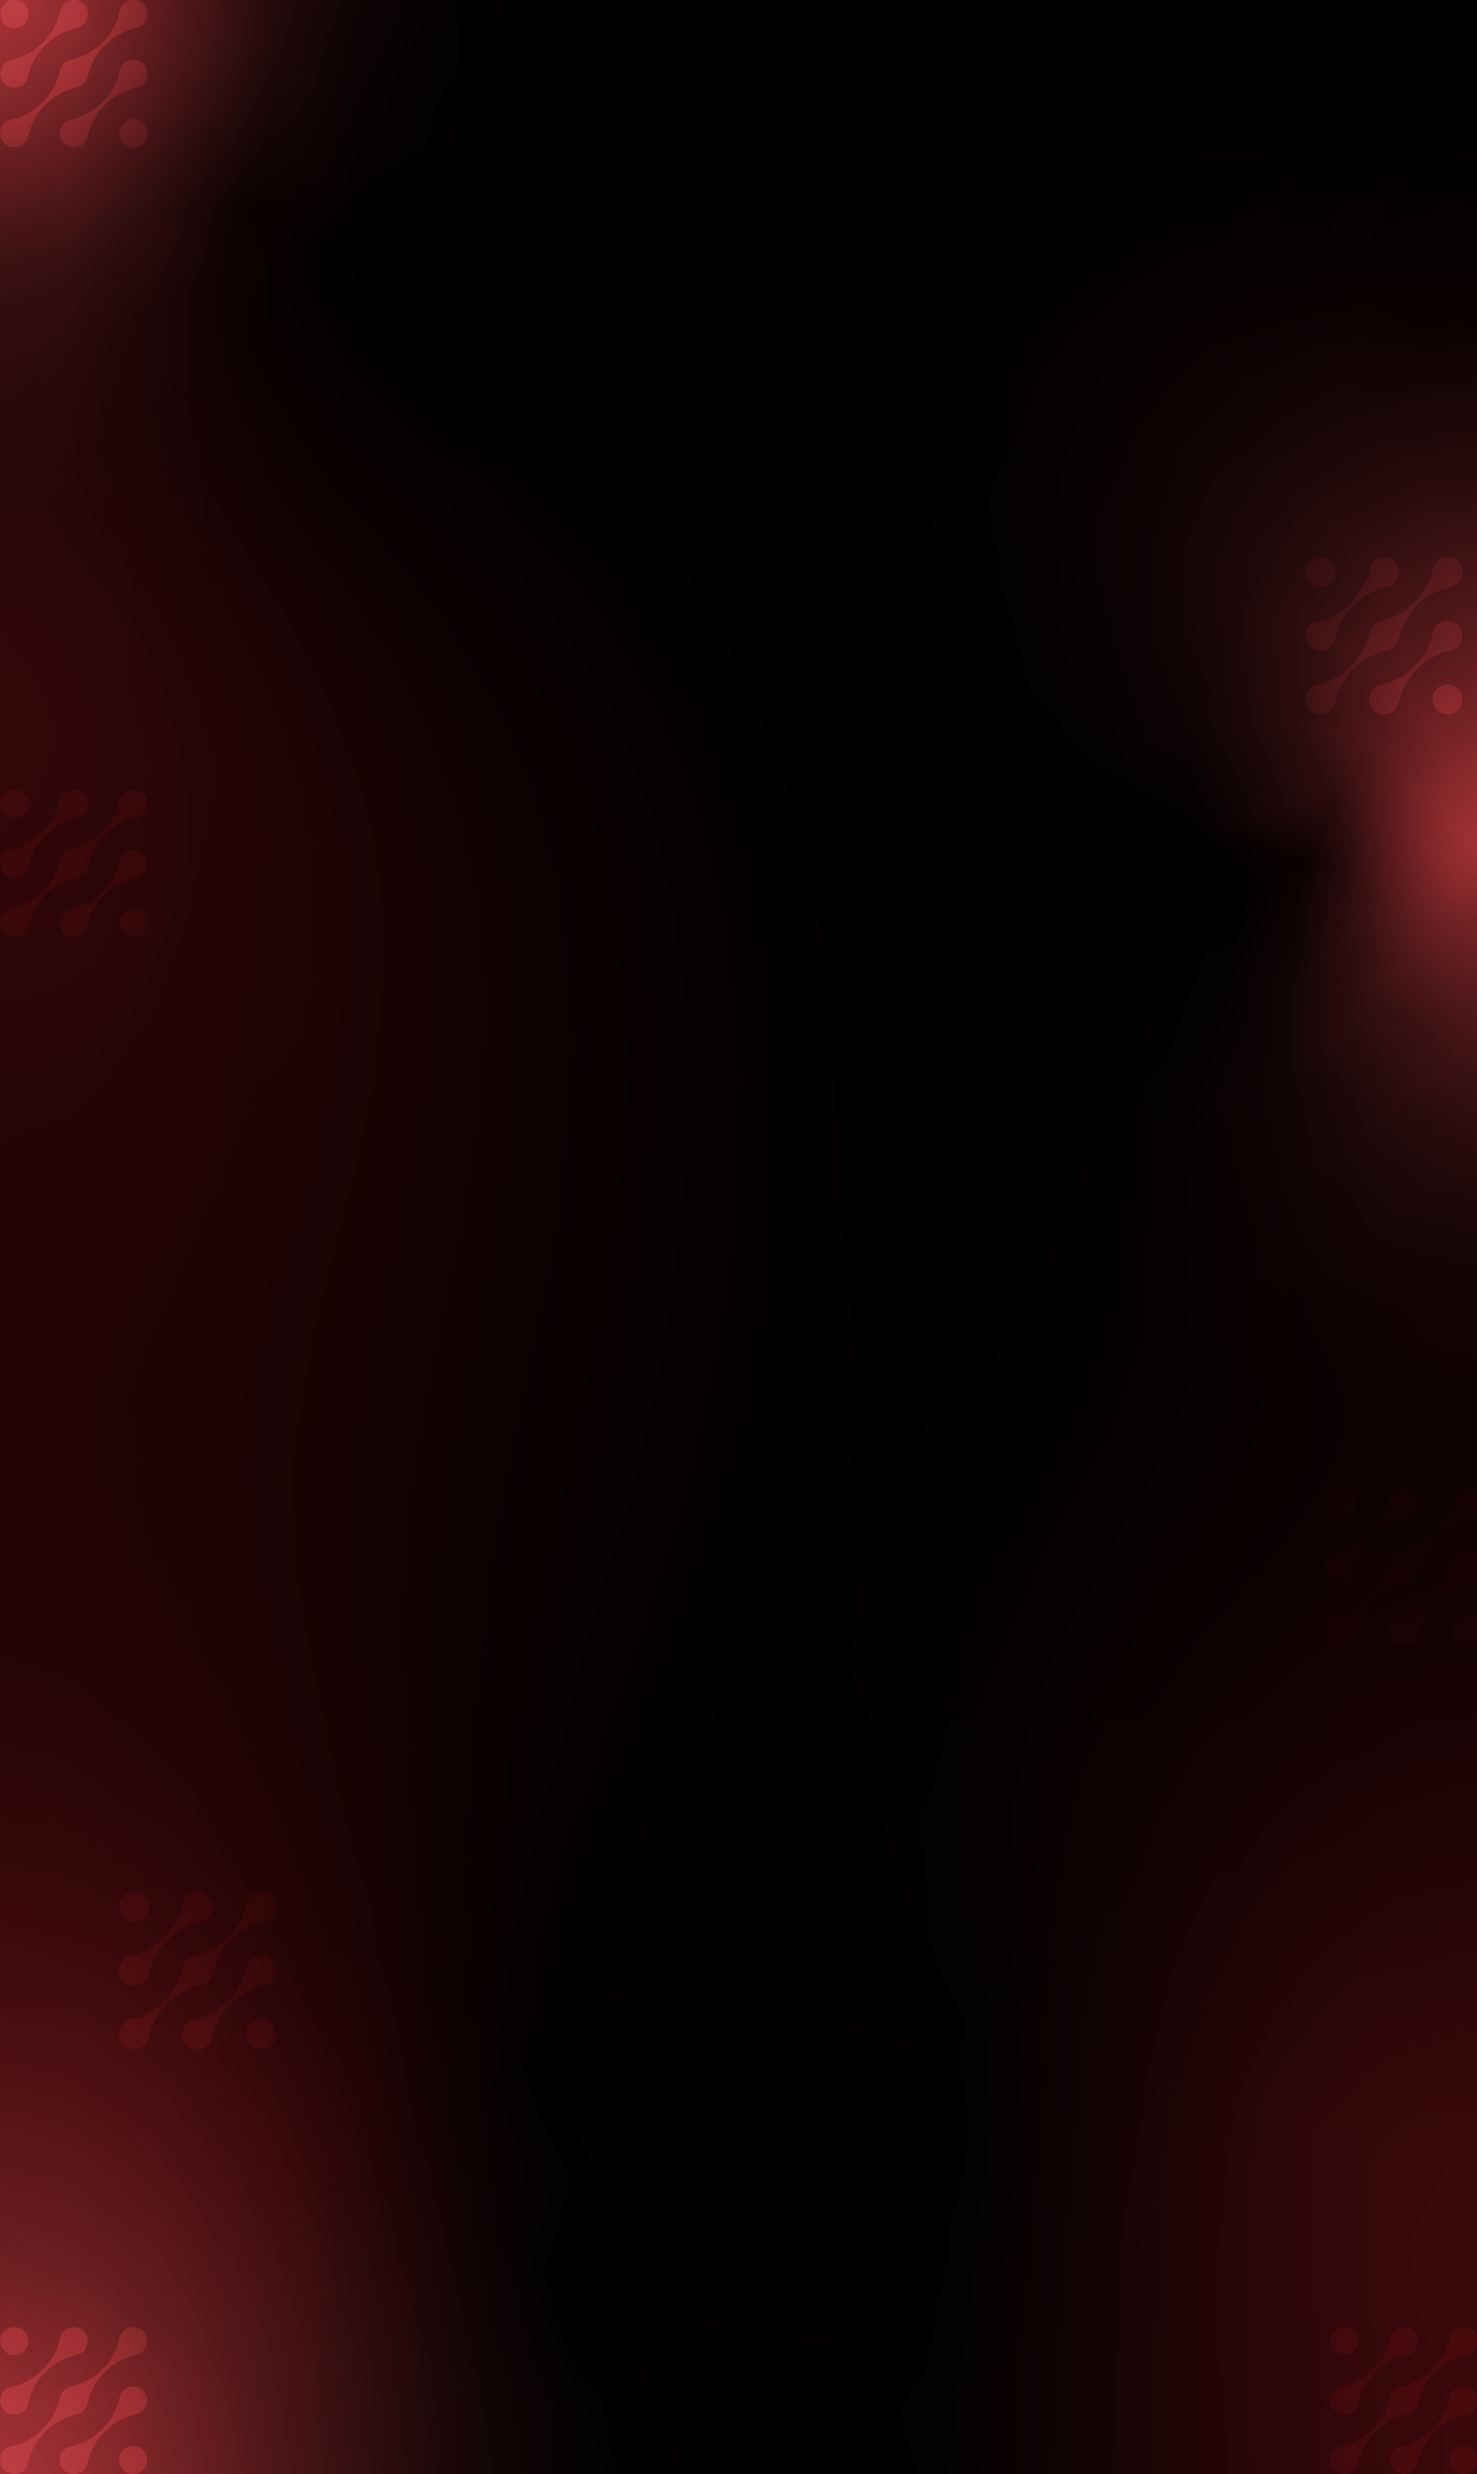
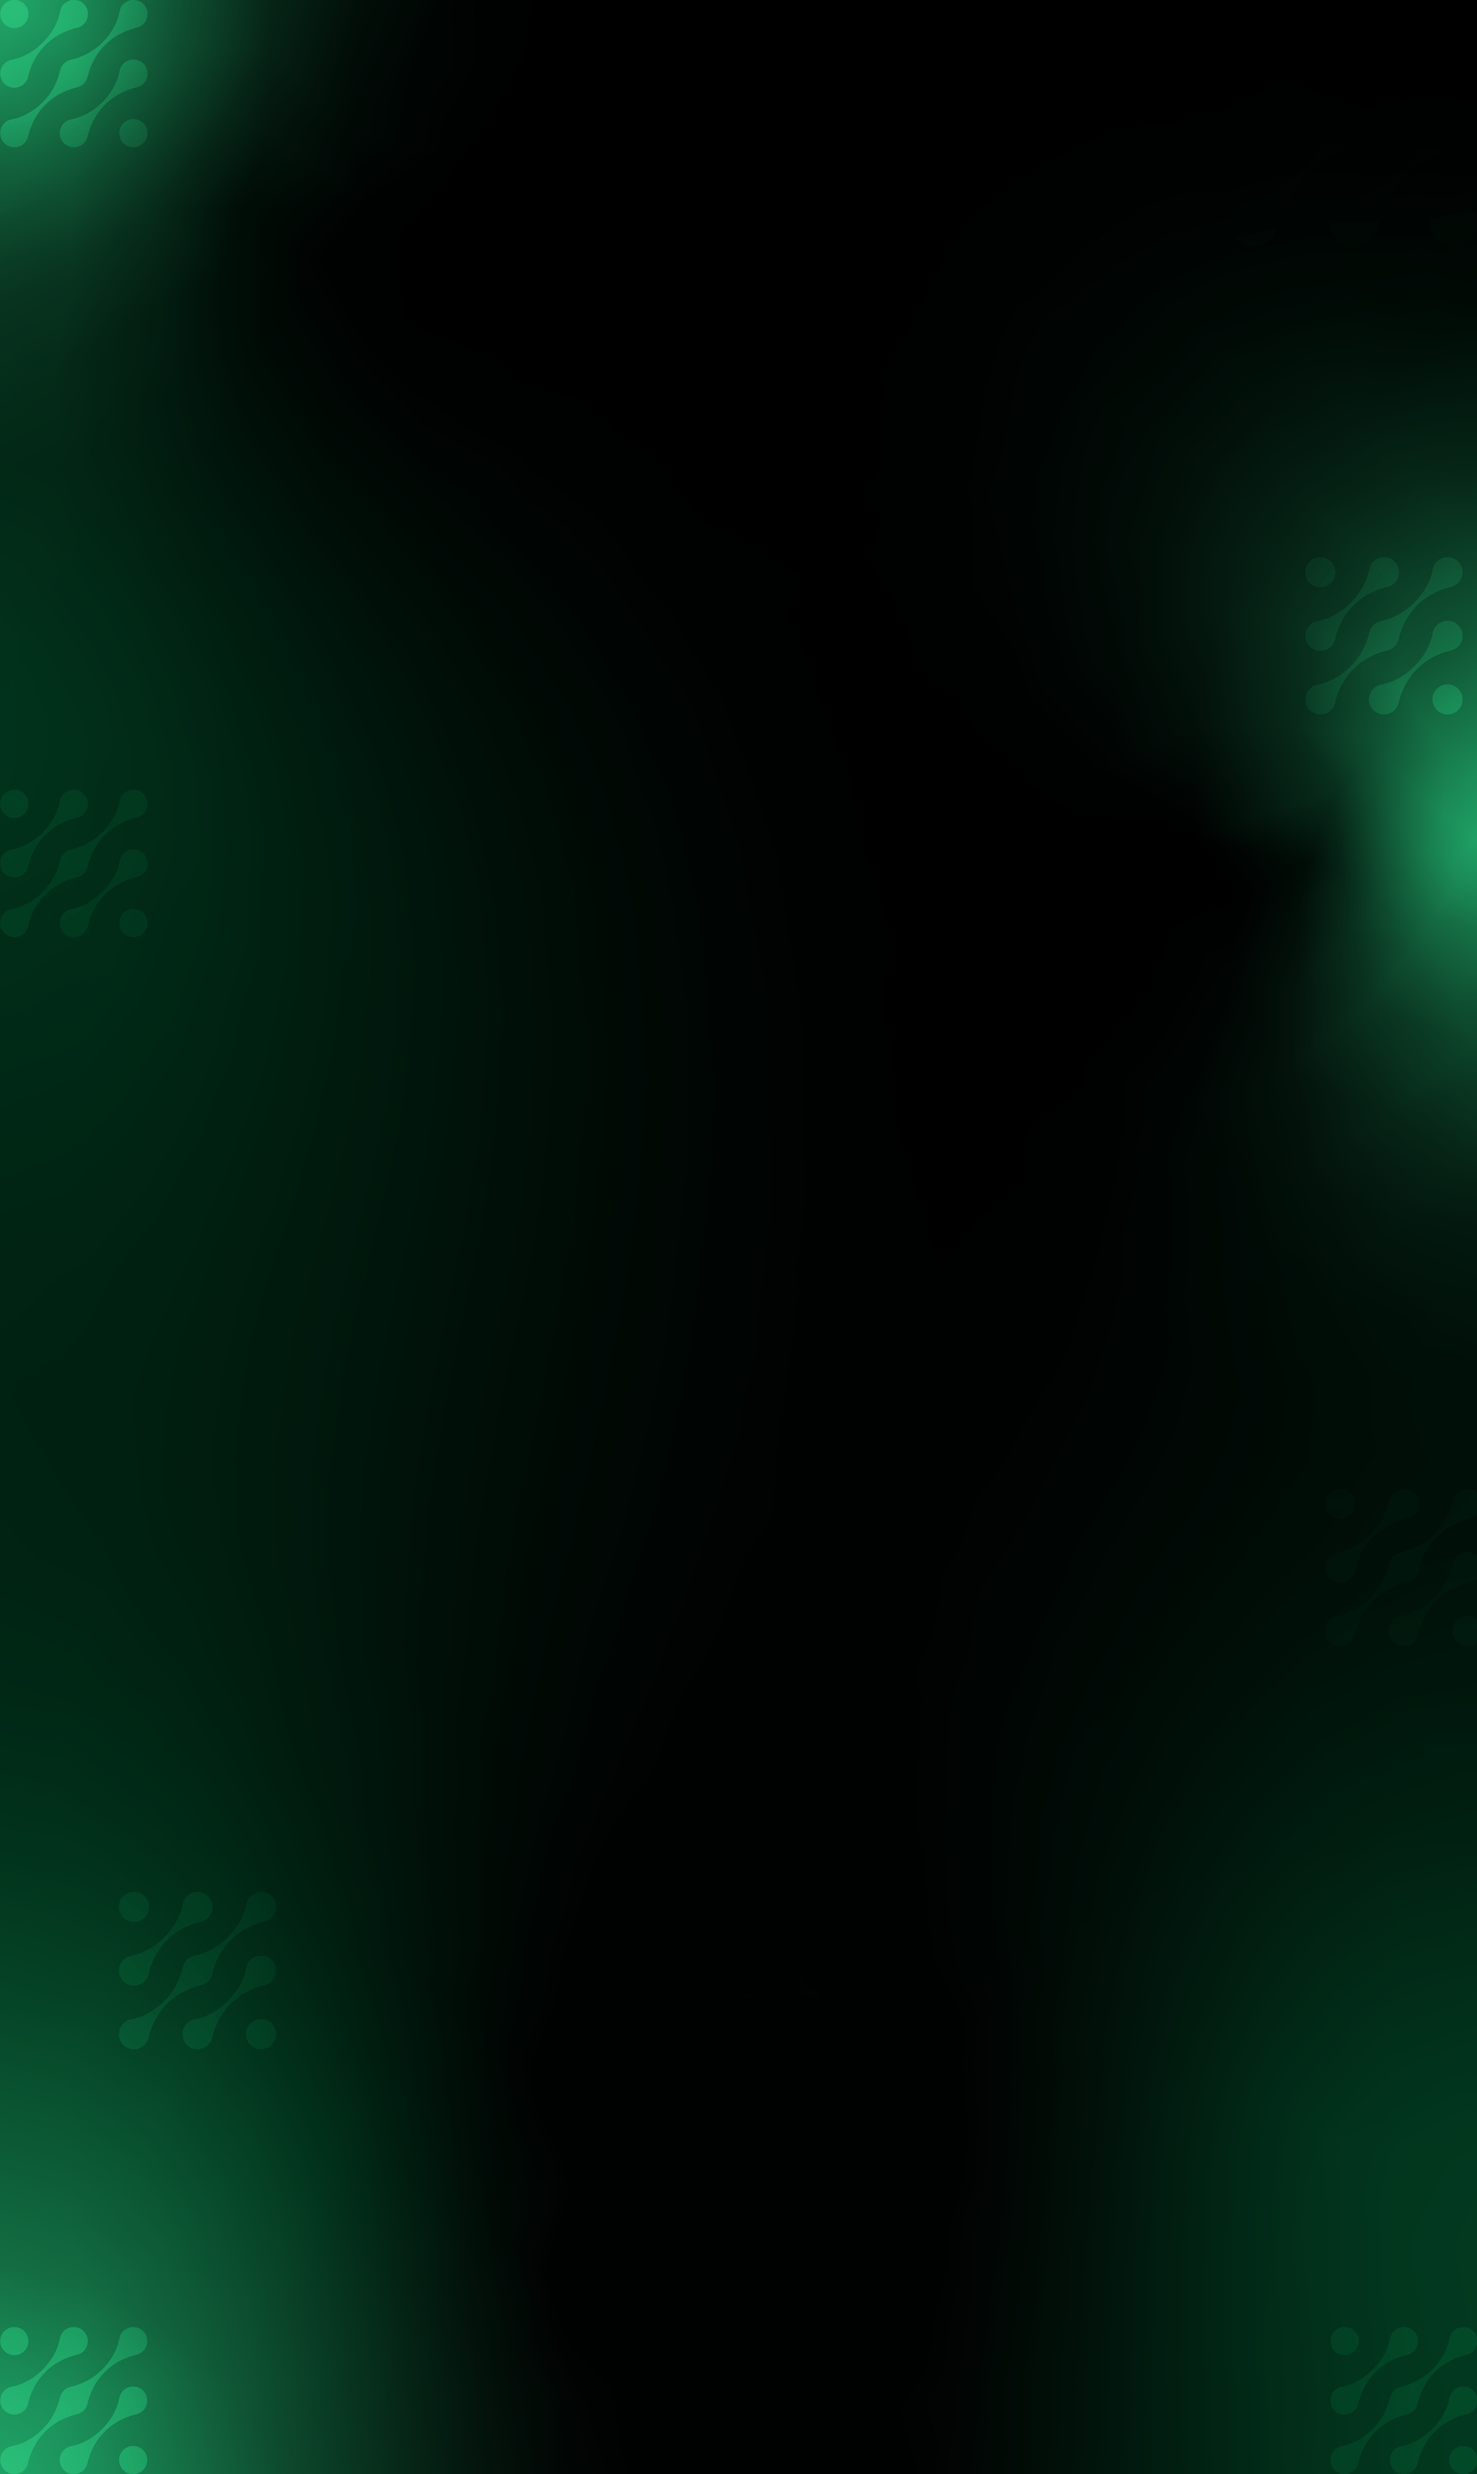
.

diff --git a/assents/style.css b/assents/style.css
@@ -1,30 +1,61 @@
 @import url('https://fonts.googleapis.com/css2?family=Gluten:wght@100..900&display=swap');
 
 :root{
-  --text-color: #000000;
-  --card-front-color: #15AE68;
-  --card-back-color: #09683d;
+  --text-color: #ffffff;
+  --card-front-color: #09683d;
+  --card-back-color: #15AE68;
 }
 
 body {
-  background: url(img/bg-desktop-red.webp);
+  background: url(img/bg-desktop-green.webp);
   font-family: Gluten;
 }
-@import url('https://fonts.googleapis.com/css2?family=Gluten:wght@100..900&display=swap');
-
-:root{
-  --text-color: #000000;
-  --card-front-color: #15AE68;
-  --card-back-color: #09683d;
-}
-
-body {
-  background: url(img/bg-desktop-red.webp);
-  font-family: Gluten;
-}
-cartao__conteudo {
+.cartao__conteudo {
     background-color: var(--card-front-color);
     text-align: center;
     height: 100%;
   }
-  
+  #container {
+    display: flex;
+    flex-wrap: wrap;
+  }
+  .cartao {
+    margin: 1rem 1rem;
+    height: 20rem;
+    flex-grow: 1;
+    flex-basis: calc(33% - 6rem);
+  }
+  .cartao__conteudo p {
+    padding: 4rem;
+  }
+  .cartao__conteudo h3 {
+    color: var(--text-color);
+    border: 1px solid var(--text-color);
+    text-align: left;
+    padding: 0.5rem;
+    position: absolute;
+    margin: 0.6rem;
+    border-radius: 0.6rem;
+    font-size: 1vw;
+  }
+  .cartao__conteudo__pergunta p {
+    color: var(--text-color);
+    font-weight: 500;
+  }
+  .cartao__conteudo__resposta p {
+    color: var(--card-back-color);
+    font-weight: 700;
+  }
+  footer {
+    background-color: black;
+    color: white;
+    position: fixed;
+    bottom: 0;
+    width: 100%;
+    height: 2rem;
+  }
+  footer p {
+    text-align: center;
+    font-size: 0.6rem;
+    margin-top: 0.5rem;
+  }
